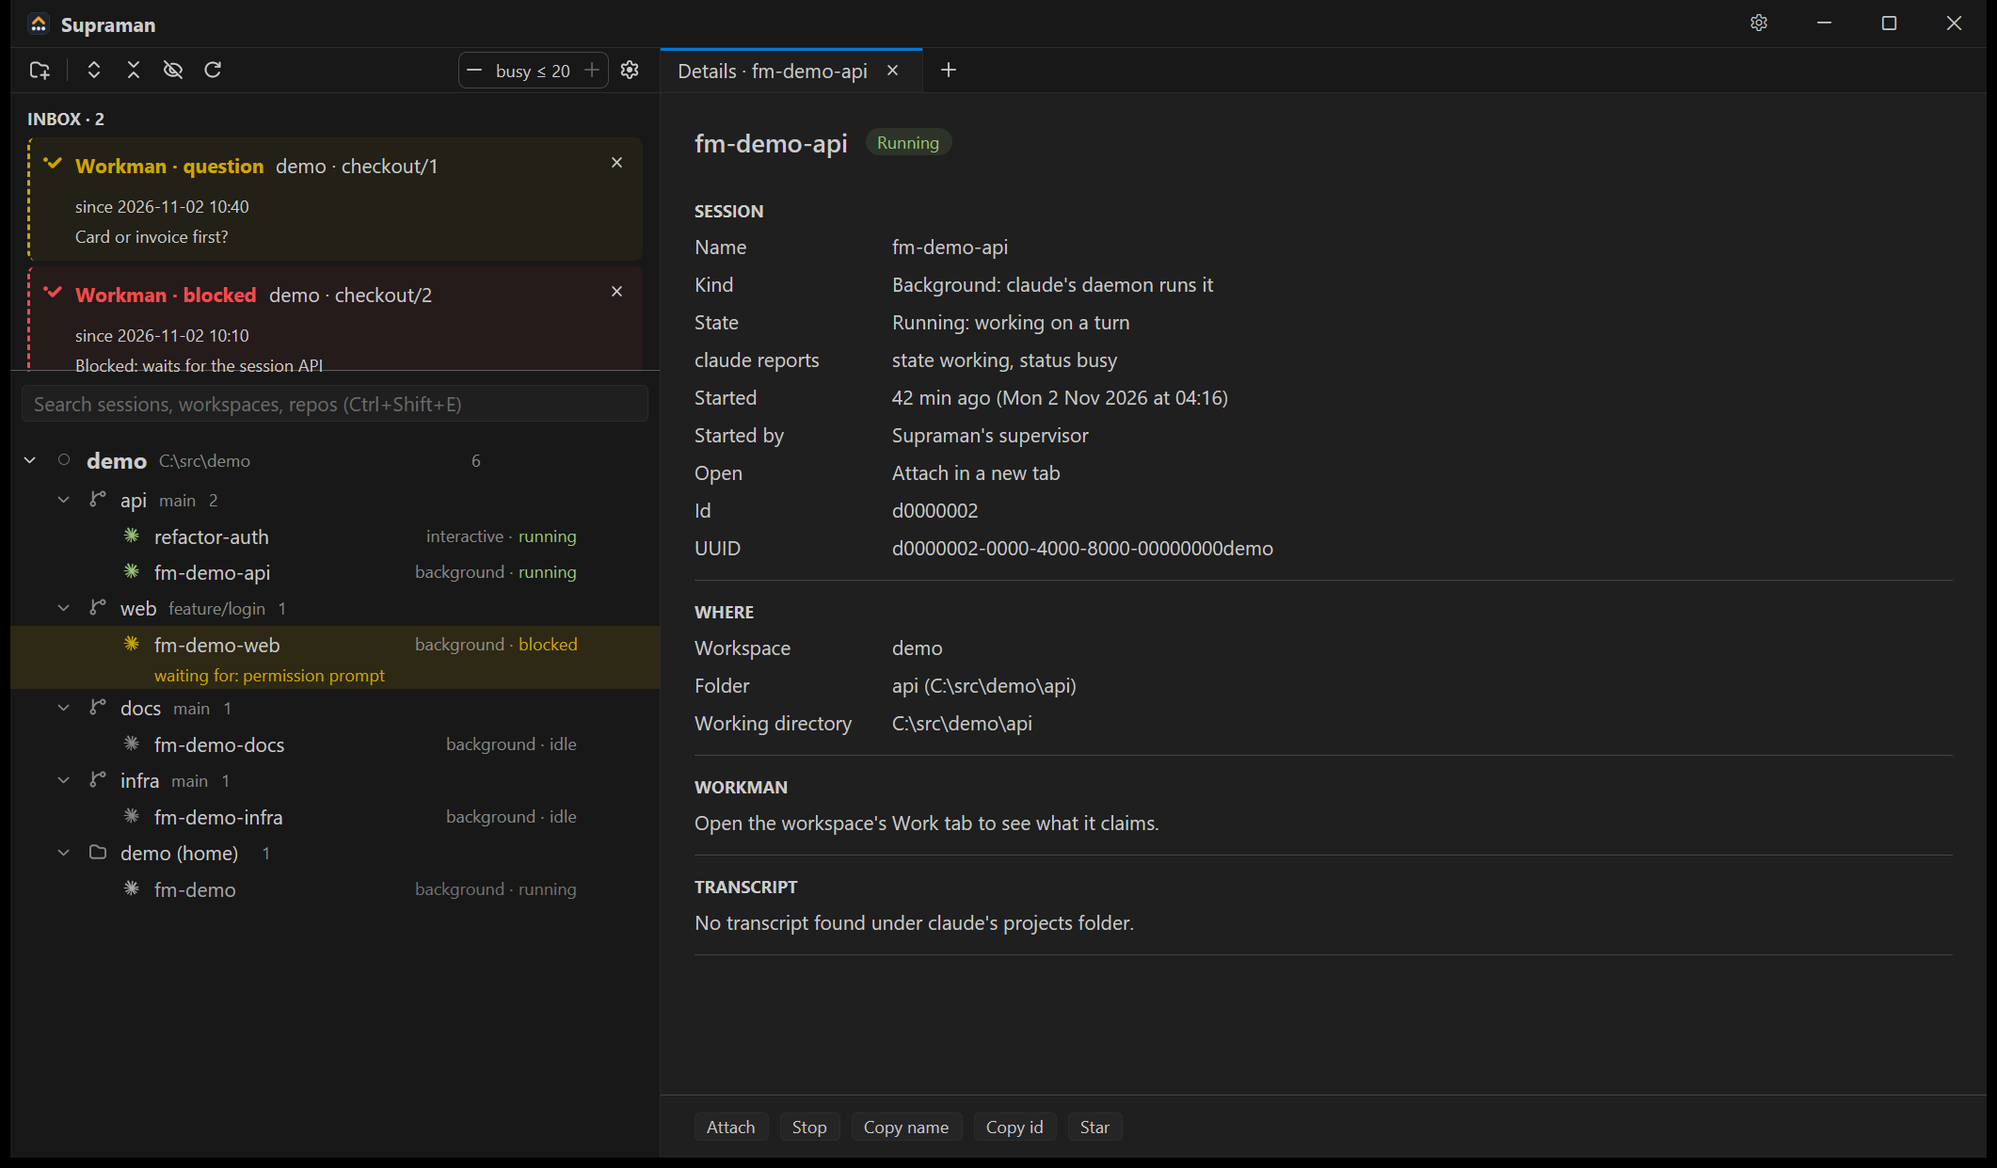
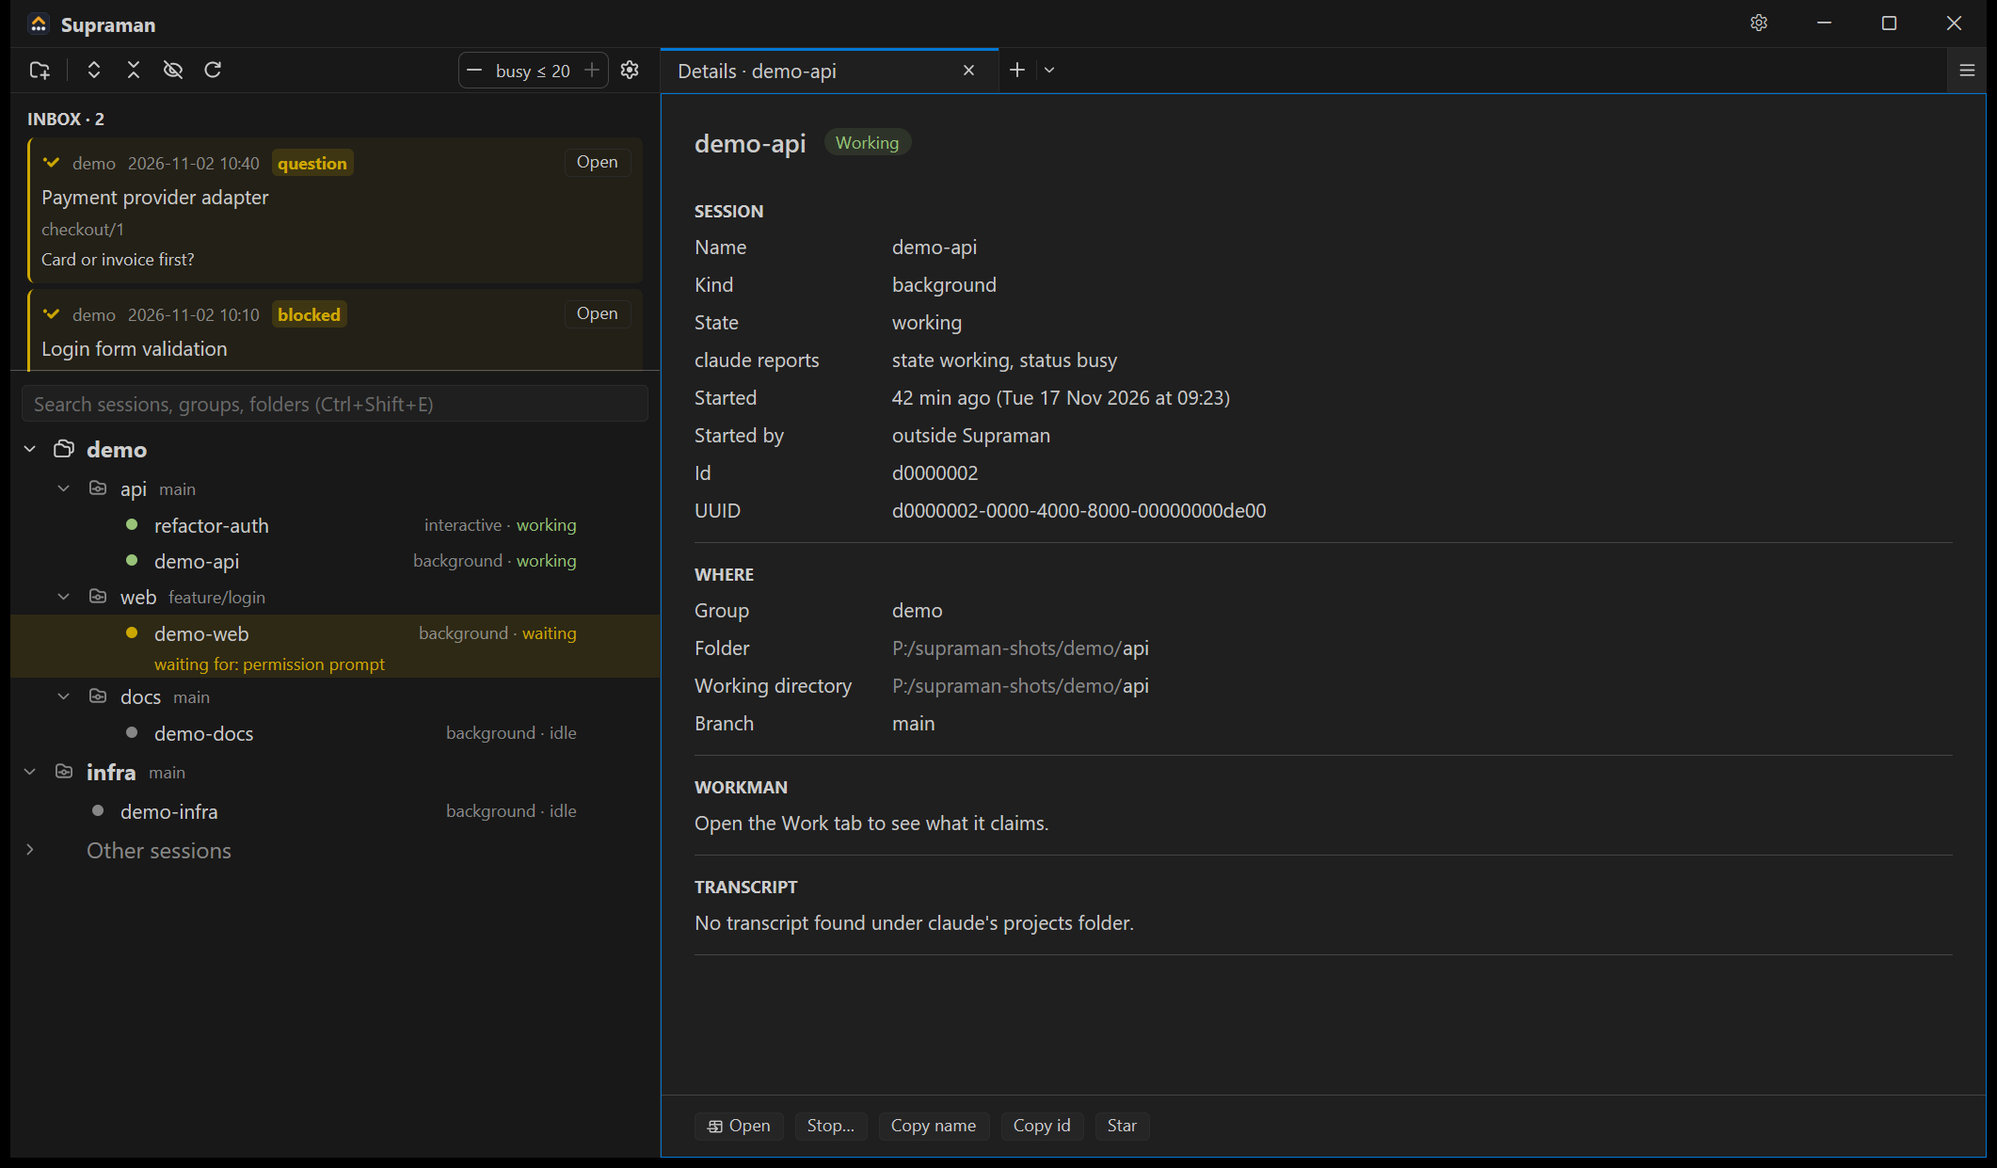
g6 docs: README describes folders, groups, the Git and Work tabs and schedules as 0.1.20 has them (git-loose-ends/6)
README.md: the sidebar's folders and groups (Add Folder…, Add Group…, Show sub
folders, Exclude Folder, Other sessions), sessions and tabs, the Inbox, the Git
tab's reads and writes, the Work tab, schedules with Approve, sm's real commands,
git 2.36 for the Git tab. docs/ROADMAP.md: GitMan is the Git tab, FileMan next;
task folders per folder key.

--selftest-shots puts its fixture folders under <drive>:\supraman-shots\demo
(refused while it exists, removed by the run's cleanup), so no shot shows this
machine's paths, and takes the Details shot before the steps that leave a toast.
Both README shots regenerated.

diff --git a/crates/supraman-app/src/selftest_shots.rs b/crates/supraman-app/src/selftest_shots.rs
@@ -19,9 +19,15 @@ use crate::{
 };
 
 pub const GROUP: &str = "demo";
-/// The fixture's folders, under the shots home: a `.git` each with its branch, no repo.
+/// On the selftest home's drive, so the shots show a short path and none of this machine's folders.
+fn shots_dir() -> PathBuf {
+    let home = home();
+    home.ancestors().last().unwrap_or(&home).join("supraman-shots")
+}
+
+/// The fixture's folders: a `.git` each with its branch, no repo.
 fn root() -> PathBuf {
-    home().join("demo")
+    shots_dir().join("demo")
 }
 const FOLDERS: [(&str, &str); 4] = [("api", "main"), ("web", "feature/login"), ("docs", "main"), ("infra", "main")];
 
@@ -52,6 +58,11 @@ pub fn prepare() -> anyhow::Result<()> {
     remove_dir_retrying(&home).with_context(|| format!("cannot clear {}", home.display()))?;
     std::fs::create_dir_all(&home)?;
     unsafe { std::env::set_var(supraman_core::HOME_VAR, &home) };
+    let shots = shots_dir();
+    if shots.exists() {
+        bail!("{} exists already; --selftest-shots makes and removes it, so move it away first", shots.display());
+    }
+    *crate::selftest::lock() = Some(crate::selftest::Scratch { dirs: vec![shots], session_name: None, kill: Vec::new(), transcripts: Vec::new() });
     let root = root();
     for (name, branch) in FOLDERS {
         let git = root.join(name).join(".git");
@@ -216,25 +227,22 @@ pub async fn run(view: &Entity<FleetView>, cx: &mut AsyncWindowContext) -> anyho
     sleep(cx, Duration::from_millis(1500)).await;
     let main = capture(out.join("supraman-main.png"), None, cx).await?;
     println!("shot: {}", main.display());
+    let target = MenuTarget::Session {
+        entry: GROUP.to_string(),
+        place: format!("{GROUP}/api"),
+        session_id: "d0000002-0000-4000-8000-00000000de00".to_string(),
+    };
+    let tab = view.update(cx, |v, cx| v.open_details(target, cx)).ok_or_else(|| anyhow!("no Details tab for demo-api"))?;
+    sleep(cx, Duration::from_millis(1500)).await;
+    let details = capture(out.join("supraman-details.png"), None, cx).await?;
+    println!("shot: {}", details.display());
+    view.update(cx, |v, cx| v.close_tab(tab, cx));
     inbox(view, &out, cx).await?;
     schedules(view, &out, cx).await?;
     sidebar_shown(view, &out, cx).await?;
     group_dialogs(view, &out, cx).await?;
     subfolders(view, &out, cx).await?;
     other_sessions(view, &out, cx).await?;
-
-    let target = MenuTarget::Session {
-        entry: GROUP.to_string(),
-        place: format!("{GROUP}/api"),
-        session_id: "d0000002-0000-4000-8000-00000000de00".to_string(),
-    };
-    let tab = view.update(cx, |v, cx| v.open_details(target, cx));
-    if tab.is_none() {
-        bail!("no Details tab for demo-api");
-    }
-    sleep(cx, Duration::from_millis(1500)).await;
-    let details = capture(out.join("supraman-details.png"), None, cx).await?;
-    println!("shot: {}", details.display());
 
     let work = view.update(cx, |v, cx| {
         let tab = v.open_work(crate::work_view::Target::Group(GROUP.into()), cx);

diff --git a/README.md b/README.md
@@ -3,36 +3,45 @@
   <img alt="Supraman" src="crates/supraman-app/assets/brand/lockups/supraman-lockup-on-light.svg" height="48">
 </picture>
 
-**Supraman** is a Windows desktop app for running several Claude Code sessions at once. You give it the folders
-you work in. It keeps the sessions each workspace wants running, lists every Claude Code session on the machine
-by workspace and folder, and puts whatever needs you in one Inbox. You can open any session in a terminal tab.
-It is for developers who already use Claude Code's `claude` CLI and have more sessions than terminal windows.
-Supraman runs on your machine and is open source (GPL-3.0-or-later).
+**Supraman** is a Windows desktop app for running several Claude Code sessions at once. You list the folders you
+work in, alone or in groups. It shows every Claude Code session on the machine under the folder it runs in, opens
+any of them in a terminal tab, and puts whatever needs you in one Inbox. A repository gets a Git tab, and with
+Workman a folder or group gets a Work tab. It is for developers who already use Claude Code's `claude` CLI and
+have more sessions than terminal windows. Supraman runs on your machine and is open source (GPL-3.0-or-later).
 
-![The main window: an Inbox with two Workman items above the workspace tree, one session blocked on a permission prompt](docs/images/supraman-main.png)
+![The main window: an Inbox with two Workman items above the folder tree, a group "demo" with three folders and a top-level folder "infra", each session with its state, one waiting on a permission prompt, and Other sessions folded at the bottom](docs/images/supraman-main.png)
 
-![A session's Details tab: its state, where it runs, and the actions from its menu](docs/images/supraman-details.png)
+![A session's Details tab: its state, where it runs (group, folder, branch), and its actions: Open, Stop, Copy name, Copy id, Star](docs/images/supraman-details.png)
 
 *The screenshots show fixture data: `supraman.exe --selftest-shots` makes them on a hidden desktop.*
 
 ## What it does
 
-- **Supervises sessions.** A workspace says which sessions it wants. Supraman launches them with `claude --bg`,
-  resumes a stopped one, and reports one that fails to start.
-- **Shows every session.** All Claude Code sessions on the machine, background and interactive, grouped by
-  workspace and folder, with their state (running, blocked, idle, stopped) and a Details tab for each.
-- **One Inbox.** A session waiting on a permission prompt, a question a session sent you, a launch that failed,
-  a blocked task in Workman, a scheduled run that failed.
-- **Terminal tabs.** Attach to a session in a tab, or open a new one with **+**.
-- **Git tab.** A folder's commit graph with its branches and tags, each commit's message and files, a file's
-  diff side by side or inline, and the work in progress, following the repository as it changes. It only reads:
-  stage and commit in your own git tool.
-- **Schedules.** Recurring work that runs on this machine (a slash command or a prompt, with a permission
-  profile and caps). Nothing runs until you approve it in the window.
-- **Workman.** Sign in once and every session Supraman launches gets its own Workman token, and the Inbox shows
-  the work items that need you.
-- **`sm`**, a command-line tool for the same things: `sm workspace add <dir>`, `sm sessions`, `sm schedule …`,
-  `sm --help` for the rest.
+- **Folders and groups.** The sidebar lists the folders you add, at the top level or in a group. A folder's
+  **Show sub folders** lists its sub folders as rows of their own, and **Exclude Folder** leaves one of them out.
+  A session shows under the deepest listed folder that holds its working folder; the rest show under
+  **Other sessions**.
+- **Sessions.** Every Claude Code session on the machine, background and interactive, with its state (working,
+  waiting, idle, interrupted, stopped, closed) and a Details tab. **Open** attaches to a running session in a
+  terminal tab or resumes a stopped one.
+- **Tabs.** On a folder, **New claude here** starts `claude` in a tab, **Open terminal here** a shell, and
+  **New task…** a prompt that starts a session with it. **+** opens a shell; its menu picks one of the
+  machine's shells (PowerShell, cmd, a Developer prompt, a WSL distro).
+- **One Inbox.** The Workman items that need you (a question, a blocked task), a scheduled run that failed, and a
+  schedule waiting for your approval.
+- **Git tab.** **Open Git** on a repository's folder: the commit graph with its branches, tags, stashes, other
+  worktrees and the sessions working in them; a commit's message and files; a file's diff side by side or inline.
+  It writes too: stage, unstage and discard files, hunks or lines; commit and amend; create, rename, check out and
+  delete branches and tags; merge, rebase, cherry-pick, revert and reset; resolve conflicts; stash and pop; fetch,
+  pull and push; add remotes and worktrees. **Undo** and **Redo** take back a commit, a checkout, a discard and
+  the like. It fetches in the background and follows the repository as it changes.
+- **Work tab.** **Open Work** on a folder or group: its Workman projects, their runs and items with their
+  criteria and evidence, and the latest activity. It only reads; your sessions write to Workman.
+- **Schedules.** Recurring work that runs on this machine (a slash command or a prompt, with a permission profile
+  and caps), listed under its folder. Nothing runs until you click **Approve** on the schedule's page.
+- **Workman.** Sign in once and every session Supraman launches gets its own Workman token.
+- **`sm`**, a command-line tool for the same things: `sm folder add <dir>`, `sm group add <name>`,
+  `sm sessions`, `sm schedule …`; `sm --help` lists them all.
 
 ## Install
 
@@ -42,7 +51,8 @@ Supraman runs on your machine and is open source (GPL-3.0-or-later).
 - Claude Code's `claude` CLI on your `PATH`, version 2.1.308 or newer. Supraman is tested with 2.1.310; it
   refuses an older CLI and runs a newer one, with a warning in the toolbar when the minor version is newer than
   the tested one ([version policy](docs/RELEASE.md#claude-cli-version-policy)).
-- PowerShell for terminal tabs: **+** and "Open terminal here" start PowerShell 7 (`pwsh`) when it is on your
+- For the Git tab, git 2.36 or newer on your `PATH` (Git for Windows).
+- PowerShell for terminal tabs: **+** and **Open terminal here** start PowerShell 7 (`pwsh`) when it is on your
   `PATH`, else the Windows PowerShell that comes with Windows. Supraman looks once, at start: a `pwsh` installed
   while it runs is used after a restart.
 
@@ -59,23 +69,24 @@ folder.
 
 ## First steps
 
-1. **Add a workspace.** The window starts empty. Click the folder button at the top of the left panel:
-   **From a parent folder…** lists the folders in the one you pick, each ticked, to keep or leave out;
-   **Custom workspace…** starts empty, and you add folders by path or Browse. Later, **Edit folders…** changes
-   them and **Rescan…** offers the new subfolders of the parent folder. From a shell: `sm workspace add <dir>`.
-2. **Open a session.** Click **+** for a PowerShell tab and run `claude` in it, or attach to a running session from
-   the tree. Sessions you start elsewhere show up in the tree too.
+1. **Add a folder.** The window starts empty. Click the folder button at the top of the left panel:
+   **Add Folder…** picks a folder and **Add Group…** names a group; a group's own **Add Folder…** puts a folder
+   in it. Drag a folder's row to move it. From a shell: `sm folder add <dir>` and `sm group add <name>`.
+2. **Open a session.** Click **New claude here** on a folder, or **+** for a shell and run `claude` in it, or open
+   a running session from the tree. Sessions you start elsewhere show up in the tree too.
 3. **Sign in to Workman** (optional): **Settings → Workman → Sign in** opens your browser. Without it everything
-   above works, and sessions run without Workman.
-4. **Schedule work** (optional): ask a session to schedule something; the plugin's `/supraman:supraman-scheduler`
-   skill adds it with `sm schedule add`. It shows in the Schedules group as pending until you click **Approve**.
+   but the Work tab works, and sessions run without Workman.
+4. **Schedule work** (optional): **New scheduled task…** on a folder asks a session to set it up; the plugin's
+   `/supraman:supraman-scheduler` skill adds it with `sm schedule add`. It shows under its folder as pending until
+   you click **Approve**.
 
 ## Updating
 
 Supraman checks GitHub Releases at start and once a day. When a newer release is out it shows
 "Supraman *version* is available"; **Update** downloads it, checks it against the release's signed manifest
-(ed25519), replaces the install and restarts. Sessions keep running in the background meanwhile. Turn the
-check off in **Settings → About**. How it works: [docs/RELEASE.md](docs/RELEASE.md#how-supraman-updates-itself).
+(ed25519), replaces the install and restarts. Sessions keep running in the background meanwhile. Turn
+**Check for updates** off in **Settings → About**. How it works:
+[docs/RELEASE.md](docs/RELEASE.md#how-supraman-updates-itself).
 
 ## Build from source
 
@@ -90,21 +101,23 @@ target\release\supraman.exe
 - Selftests: `target\release\supraman.exe --selftest` drives the real app on a hidden desktop of its own, so
   you can keep typing while it runs. It needs the `claude` CLI and launches one short session of its own.
 - A release folder and zip: `scripts\release.ps1` ([docs/RELEASE.md](docs/RELEASE.md)).
-- How the crates fit together: [docs/ARCHITECTURE.md](docs/ARCHITECTURE.md).
+- How the crates fit together: [docs/ARCHITECTURE.md](docs/ARCHITECTURE.md); the keys: [docs/KEYS.md](docs/KEYS.md).
 
 The app is a native Rust app built on [gpui](https://github.com/zed-industries/zed).
 
 ## Roadmap
 
-Supraman runs on Windows today. Next come **Gitman** and **Fileman**, then macOS and Linux. What is Windows-only,
-and what takes its place on each platform: [docs/ROADMAP.md](docs/ROADMAP.md).
+Supraman runs on Windows today. GitMan is its Git tab; next comes **FileMan**, then macOS and Linux. What is
+Windows-only, and what takes its place on each platform: [docs/ROADMAP.md](docs/ROADMAP.md).
 
 ## Family
 
 - **Supraman**: runs and watches your Claude Code sessions (this repository).
 - **Workman**: the work tracker your sessions plan and report in
-  ([github.com/getsupraman/workman](https://github.com/getsupraman/workman)). Supraman shows its board and Inbox.
-- **Gitman** and **Fileman**: planned.
+  ([github.com/getsupraman/workman](https://github.com/getsupraman/workman)). Supraman shows its projects in the
+  Work tab and the items that need you in the Inbox.
+- **GitMan**: the Git tab, part of Supraman.
+- **FileMan**: planned.
 
 ## Licence
 

diff --git a/docs/ROADMAP.md b/docs/ROADMAP.md
@@ -1,7 +1,7 @@
 # Roadmap
 
-After the public release, the next apps are **Gitman** and **Fileman**, built as plugin apps next to
-Supraman (roadmap/3). Then come macOS and Linux. Supraman runs on Windows today. This page lists every piece that
+GitMan is Supraman's Git tab. The next app is **FileMan**, built as a plugin app next to Supraman
+(roadmap/3). Then come macOS and Linux. Supraman runs on Windows today. This page lists every piece that
 is Windows-only, where it is, and what takes its place on each platform. It is the starting point for the porting
 units roadmap/macos-port and roadmap/linux-port.
 
@@ -57,7 +57,7 @@ These pieces are Windows-only in the same way for macOS and Linux, and the count
 
 | Windows-only piece | Where it lives | macOS counterpart | State |
 |---|---|---|---|
-| Task Scheduler over COM, a task folder per workspace (`WindowsRegistrar`, `sync`) | `supraman-core/src/schedule/task_service.rs`, `task_xml.rs`, `registrar.rs`, `supraman-claude` `task_run_level` | A launchd agent per schedule in `~/Library/LaunchAgents`, its label under one prefix per home (`ai.supraman.<hex8>.<ws>.<id>`), loaded with `launchctl bootstrap gui/<uid>`; `Registrar` stays the seam, `FakeRegistrar` the tests' | **expected**. `StartCalendarInterval` has no time zone and no "every N minutes from a start", so `next_fire` decides and each run arms the next |
+| Task Scheduler over COM, a task folder per folder key (`WindowsRegistrar`, `sync`) | `supraman-core/src/schedule/task_service.rs`, `task_xml.rs`, `registrar.rs`, `supraman-claude` `task_run_level` | A launchd agent per schedule in `~/Library/LaunchAgents`, its label under one prefix per home (`ai.supraman.<hex8>.<key>.<id>`), loaded with `launchctl bootstrap gui/<uid>`; `Registrar` stays the seam, `FakeRegistrar` the tests' | **expected**. `StartCalendarInterval` has no time zone and no "every N minutes from a start", so `next_fire` decides and each run arms the next |
 | Other tools' tasks that run claude (`foreign`) | `supraman-core/src/schedule/foreign.rs` | The user's launchd agents and `crontab -l`, read only | **expected** |
 | DPAPI secret store (a file per key under `<home>/oauth/secrets`) | `supraman-core/src/secret.rs` (`FileStore`, `default_store`), `supraman-workman/src/secret.rs` | Keychain (`Security.framework`, a generic password per key, service `ai.supraman.<hex8>`) behind `SecretStore` | **expected**; off Windows `default_store` is a `MemoryStore`, so sign-in does not survive a restart (**verified**) |
 | Tray icon and its menu, light and dark taskbar icons | `supraman-app/src/tray.rs`, `main.rs` (`tray_state`) | A menu bar item (`NSStatusItem`, through `tray-icon`'s macOS backend) with a template image | **expected**; no tray off Windows today (**verified**) |

diff --git a/docs/ARCHITECTURE.md b/docs/ARCHITECTURE.md
@@ -237,7 +237,7 @@ Change these only deliberately, with the owner's say and a LEARNINGS entry.
 - **Selftests** drive the real app on a home under `target/` (`crates/supraman-app/src/main.rs` `parse_args`, `crates/supraman-app/src/selftest.rs` `start`):
   - `supraman.exe --selftest`: the gate's UI run (`selftest.rs` `gate`, steps in `selftest_*.rs`), clicking through `HitTargets`. Step 1 writes a fixture group to the scratch home's folders.toml (two fake repos and this checkout's repo), never the user's folders. Steps 3–6 attach, close, scroll, select/copy/paste and follow a link in a real session's tab; 7–7y the Work tab, the left panel, first run, tabs and hotkeys, closed sessions, titles, refresh, search, marks, notices, delete, font and zoom, reopen, a [+] session, Start, the updater (7+u) the schedules (7y) and the Git tab on a fixture repo in the home (7g: open from the icon, a png diff, the minimum widths). Only what a unit test cannot see is checked here, and each step file opens with the line saying what; the watchdog fails the run after 300 s (frames slow while the display is off; 360 s with `SUPRAMAN_SHOTS`) and names the running step and the slowest ones.
   - `--selftest-perf`: what needs a quiet machine. Memory per open tab, the startup paint bound, the Work tab and idle frame budgets and the UI's responsiveness under load (7+r); watchdog 300 s. Not part of the merge gate.
-  - `--selftest-shots` (with `SUPRAMAN_SHOTS`): the screenshots of fixture pages (`selftest_shots.rs`).
+  - `--selftest-shots` (with `SUPRAMAN_SHOTS`): the screenshots of fixture pages (`selftest_shots.rs`), the fixture folders under `<drive>:\supraman-shots\demo` on the selftest home's drive (refused while that folder exists, removed at the end), so no shot shows this machine's paths.
   - `--selftest-detach-shutdown`: attach tabs detach on quit (`detach_on_shutdown`); `--selftest-detach <n>` is a measurement run.
 - **The clipboard:** every selftest mode copies and pastes through `supraman_ui::clipboard`'s in-memory clipboard (`main` installs it before any window opens), so a run never touches the user's clipboard and the user's copies never reach a run. **The machine lock:** `crates/supraman-app/src/selftest_machine.rs` holds the named mutex `Local\Supraman-selftest` for a whole run, so two selftests on one machine never run at once.
 - **The gate**, run before every merge (commands: docs/DEVELOPING.md): the build, `cargo test`, `--selftest`, `--selftest-detach-shutdown`, and 0 leftover `fm-selftest` sessions afterwards (`claude agents --json --all`).
